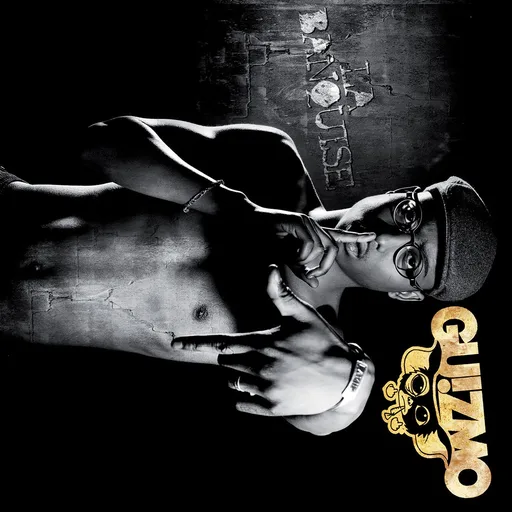
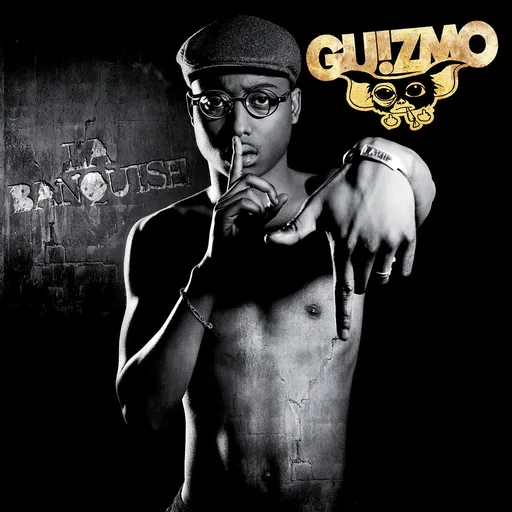
CD comme un vrai boîtier : pochette à l'endroit, charnière à gauche avec sa tranche, faux fond noir peu profond ; il se tourne vers la caméra ; skate un peu plus grand

diff --git a/src/components/gallery/three/identity.ts b/src/components/gallery/three/identity.ts
@@ -56,6 +56,8 @@ export type IdentityEntry = {
   front?: boolean;
   /** Amplitude du balancement d’un objet de face (1 par défaut), pour une image à garder lisible. */
   sway?: number;
+  /** Objet de face qui se tourne vers la caméra : vu bien droit quand on arrive devant. */
+  faceCamera?: boolean;
   /** Écran allumé : la pièce devient blanche et lumineuse, avec un halo. */
   screen?: { piece: string; glow?: number };
   /** Pièces en verre : translucides (nom du matériau ou de la pièce). */
@@ -367,7 +369,7 @@ export const IDENTITY_CATALOG: IdentityEntry[] = [
     name: "skateboard",
     file: "skateboard.glb",
     build: skateboard,
-    size: 1.7,
+    size: 2,
     // Le logo Deathwish dessous, sur fond rose (image choisie par Paul).
     decals: [{ piece: "skateboard", image: "/models/decals/deathwish-deck.webp", side: [0, -1, 0] }],
     sounds: ["skateboard-1", "skateboard-2"],
@@ -383,18 +385,21 @@ export const IDENTITY_CATALOG: IdentityEntry[] = [
   // sa mesure sur ordinateur : le CD à droite du projet 10, bien en vue ;
   // fromage et pion n’ont de place que sur téléphone (30 places, 32 objets).
   { name: "crowbar", file: "crowbar.glb", size: 1.3, sounds: ["crowbar"] },
-  // Boîtier fermé, tout noir (le fichier a perdu son plateau et son disque,
-  // rangés dedans, et gagné un compartiment derrière le couvercle), la
-  // pochette de « La Banquise » (Guizmo) sur le dessus, un quart de tour vers
-  // la droite (choix de Paul), tournée vers nous ; il se balance à peine,
-  // pour rester lisible. Au clic, 45 s du morceau (la nappe se tait).
+  // Boîtier de CD comme celui de Paul (photo du 10 oct. 2026), construit
+  // par script : la pochette de « La Banquise » (Guizmo) à l'endroit, la
+  // charnière à gauche avec sa tranche, un faux fond noir peu profond
+  // derrière. Il se tourne vers la caméra et se balance à peine : on voit
+  // Guizmo bien droit en arrivant. Au clic, 45 s du morceau (la nappe se tait).
   {
     name: "cd",
     file: "cd.glb",
     front: true,
-    sway: 0.35,
-    turn: [0, Math.PI / 2, 0.576],
-    decals: [{ piece: "Object_2", image: "/models/decals/cd-cover.webp", side: [-0.839, 0.545, 0] }],
+    faceCamera: true,
+    sway: 0.3,
+    decals: [
+      { piece: "Cover", image: "/models/decals/cd-cover.webp", side: [0, 0, 1], up: [0, 1, 0] },
+      { piece: "Hinge", image: "/models/decals/cd-spine.webp", side: [0, 0, 1], up: [0, 1, 0] },
+    ],
     sounds: ["cd-music"],
     music: true,
   },

diff --git a/src/components/gallery/three/galleryRenderer.ts b/src/components/gallery/three/galleryRenderer.ts
@@ -1858,10 +1858,21 @@ export function createGalleryRenderer(
       const entry = IDENTITY_CATALOG[mesh.userData.entry as number];
       if (entry.front) {
         // Toujours de face : un lent balancement plutôt qu’un tour complet.
+        // Certains se tournent en plus vers la caméra (cap, puis inclinaison).
         const sway = entry.sway ?? 1;
+        let yaw = 0;
+        let pitch = 0;
+        if (entry.faceCamera) {
+          const dx = camera.position.x - layout.position[0];
+          const dy = camera.position.y - layout.position[1];
+          const dz = camera.position.z - layout.position[2];
+          yaw = Math.atan2(dx, dz);
+          pitch = -Math.atan2(dy, Math.hypot(dx, dz));
+          mesh.rotation.order = "YXZ";
+        }
         mesh.rotation.set(
-          (Math.sin(spin * 0.5 + layout.phase) * 0.12 - pointer.y * 0.3) * sway,
-          (Math.sin(spin * 0.35 + layout.phase) * 0.5 + pointer.x * 0.4) * sway,
+          pitch + (Math.sin(spin * 0.5 + layout.phase) * 0.12 - pointer.y * 0.3) * sway,
+          yaw + (Math.sin(spin * 0.35 + layout.phase) * 0.5 + pointer.x * 0.4) * sway,
           0,
         );
       } else {

diff --git a/src/components/gallery/three/identityFiles.ts b/src/components/gallery/three/identityFiles.ts
@@ -70,6 +70,12 @@ export type ModelDecal = {
   side?: [number, number, number];
   /** Luminosité de l'image (> 1 : un écran allumé). */
   glow?: number;
+  /**
+   * Direction du haut de l'image (repère du fichier). Sans elle, il suit le
+   * grand côté de la zone (image en hauteur) ou le petit : sur une zone
+   * carrée, ce serait au hasard (une pochette couchée).
+   */
+  up?: [number, number, number];
 };
 
 export type ModelOptions = {
@@ -221,7 +227,7 @@ function cutDecal(geometry: BufferGeometry, decal: ModelDecal, portrait: boolean
   };
   const [first, second] = axes.filter((_, index) => index !== main);
   const long = span(first).size >= span(second).size ? first : second;
-  const up = portrait ? long : long === first ? second : first;
+  const up = decal.up ? new Vector3(...decal.up).normalize() : portrait ? long : long === first ? second : first;
   const right = new Vector3().crossVectors(up, normal);
   const across = span(right);
   const along = span(up);
